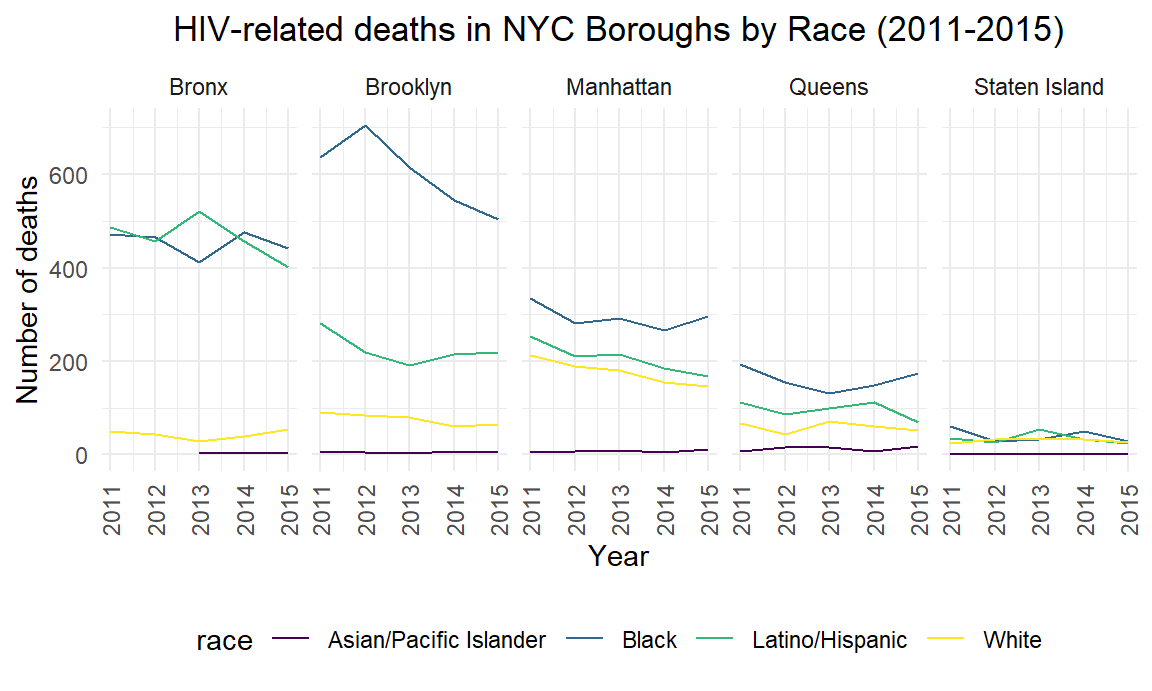
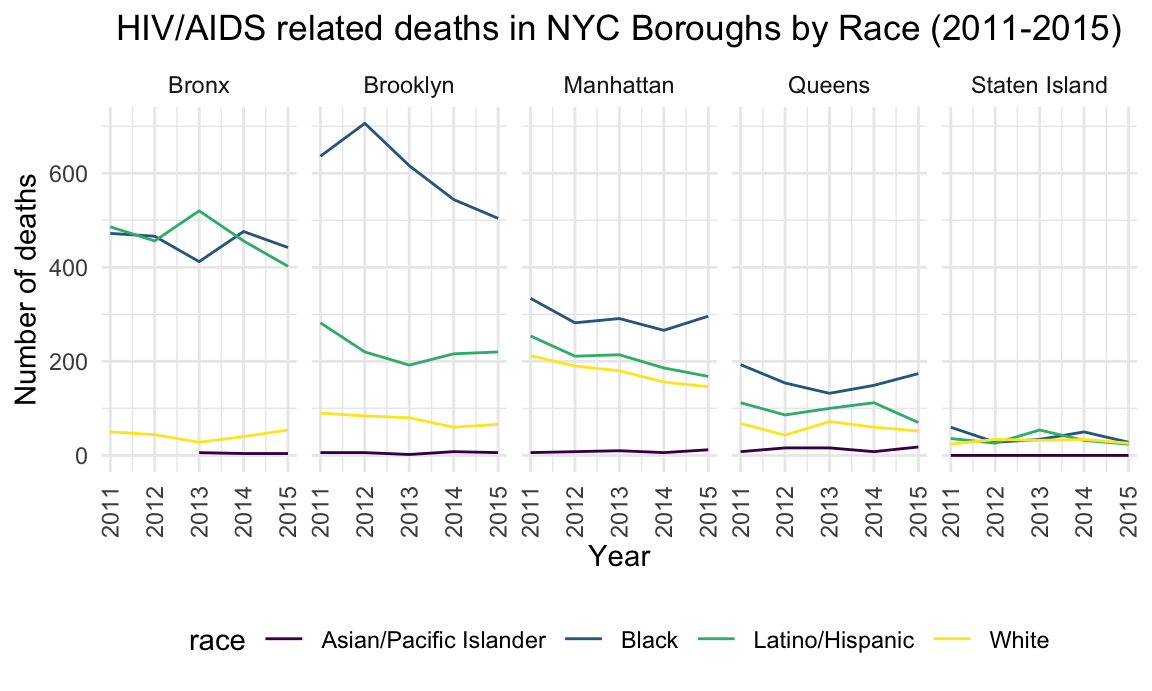
Added HIV/AIDS code and text to report

diff --git a/hiv_analysis.html b/hiv_analysis.html
@@ -366,16 +366,51 @@ City</h1>
 <div id="motivation-to-investiagate-hivaids-related-deaths"
 class="section level2">
 <h2>Motivation to Investiagate HIV/Aids Related Deaths</h2>
+<p>New York City was affected by the HIV/AIDS epidemic more than any
+other U.S. city. When AIDS was first discovered in 1891, little was
+known about the mysterious disease rapidly spreading through the city
+and disproportionately affecting gay men. Doctors had no clue about the
+diseases’ origin, and there was no medical treatment. As a result,
+people with AIDS were essentially given a death sentence. A CDC report
+from 1987 estimated that 70,000 people in NYC had AIDS, and AIDS cases
+in NYC accounted for 30% of AIDS cases in the USA. The same report
+stated that of all AIDS cases in reported in NYC, 51% of adults and 59%
+of children have died. By the end of 192, AIDS had become the number one
+cause of death for U.S. men ages 25 to 44. More than one million
+Americans were infected with HIV, and nearly 10 million people were
+infected with HIV worldwide. Given New York City’s history with
+HIV/AIDS, we wanted to explore recent HIV/AIDS data mortality data.
+Since access to diagnosis and treatment is now widely available
+throughout the city, we were interested in analyzing trends in
+HIV-related deaths accounting by sociodemographic factors such as race,
+age, sex, and NYC borough.</p>
 <pre class="r"><code>#Import data set and clean data
 
 hiv_data = read.csv(&quot;data/DOHMH_HIV_AIDS_Annual_Report.csv&quot;) %&gt;%
    janitor::clean_names() %&gt;%
     na_if(., 99999) %&gt;%
   rename(., sex = gender)</code></pre>
+<p>The sharp decline in HIV/AIDs related mortality in NYC observed in
+our data coincides with USA’s mortality trends reported by the CDC in
+2014. This steep decline in the registered number of deaths is explained
+by the significant scientific and medical advances in HIV diagnosis and
+treatment of early 2000. In 2011, a landmark research study showed that
+putting healthy individuals living with HIV on antiretrovirals can limit
+their virus transmission by 96%. The same FDA approved the first at-home
+HIV test, and considerable advances were made in treatment. NYC’s
+success in fighting the HIV/AIDS epidemic results from the courageous
+work of activists, medical advocates, scientists, and brave gay men and
+women throughout NYC and the world.</p>
 </div>
 <div id="exploring-hivaids-related-deaths-in-nyc-by-race-age-and-sex"
 class="section level2">
 <h2>Exploring HIV/Aids Related Deaths in NYC by Race, Age, and Sex</h2>
+<p>Not everyone has the same access to HIV/AIDS care and early
+diagnosis, and access to medical services, in general, differs
+substantially by race, income, and neighborhood. Therefore, in the
+following sections, we will focus on our analysis of how the decline in
+HIV/AIDS-related deaths varies by race/ethnicity, age, sex, and NYC
+borough, as a proxy of income and SES.</p>
 <pre class="r"><code>#Number of HIV-related Deaths in NYC (2011-2015)
 
 hiv_deaths = hiv_data %&gt;% 
@@ -387,7 +422,7 @@ hiv_deaths = hiv_data %&gt;%
 ggplot(data=hiv_deaths, aes(x=year, y= sum_deaths, group=1)) +
     geom_line() +
     geom_point()+
-  labs (title = &quot;Number of HIV/Aids Related deaths in NYC (2011-2015)&quot;,
+  labs (title = &quot;Number of HIV/AIDS Related deaths in NYC (2011-2015)&quot;,
     x = &quot;Year&quot;,
     y = &quot;Number of deaths&quot;) +
   theme(plot.title = element_text(hjust = 0.5))</code></pre>
@@ -403,7 +438,7 @@ hiv_data %&gt;%
   theme_classic() +
   labs(x = &quot;Race&quot;,
        y = &quot;Number of Deaths&quot;,
-       title = &quot;HIV-related Deaths by Race&quot;) +
+       title = &quot;HIV/AIDS related Deaths by Race&quot;) +
   theme(plot.title = element_text(hjust = 0.7))  </code></pre>
 <p><img src="hiv_analysis_files/figure-html/unnamed-chunk-3-1.png" width="90%" /></p>
 <pre class="r"><code>#Boxplot Hiv-related Deaths in NYCby Age 
@@ -416,7 +451,7 @@ hiv_data %&gt;%
   geom_boxplot() +
   labs(x = &quot;Age Group&quot;,
        y = &quot;Number of Deaths&quot;,
-       title = &quot;HIV/Aids Related Deaths by Age&quot;) +
+       title = &quot;HIV/AIDS Related Deaths by Age&quot;) +
   theme(plot.title = element_text(hjust = 0.7))  </code></pre>
 <p><img src="hiv_analysis_files/figure-html/unnamed-chunk-4-1.png" width="90%" /></p>
 <pre class="r"><code>#Boxplot Hiv-related Deaths in NYC by Sex 
@@ -428,13 +463,15 @@ hiv_data %&gt;%
   geom_boxplot() +
   labs(x = &quot;Sex&quot;,
        y = &quot;Number of Deaths&quot;,
-       title = &quot;HIV/Aids Related Deaths by Sex&quot;) +
+       title = &quot;HIV/AIDS Related Deaths by Sex&quot;) +
   theme(plot.title = element_text(hjust = 0.7))  </code></pre>
 <p><img src="hiv_analysis_files/figure-html/unnamed-chunk-5-1.png" width="90%" /></p>
 </div>
 <div id="visualiazing-hivaids-related-deaths-by-nyc-borough"
 class="section level2">
 <h2>Visualiazing HIV/Aids Related Deaths by NYC Borough</h2>
+<p>Now we will visualize the trends in number of HIV/AIDS related deaths
+for each one of the five NYC <code>borough</code>:</p>
 <pre class="r"><code>#HIV-related deaths in NYC by race 
 
 hiv_data %&gt;% # Filter hiv data by borough
@@ -446,7 +483,7 @@ hiv_data %&gt;% # Filter hiv data by borough
  ggplot(aes(x = year, y = sum_deaths, color = race)) +
     geom_line() +
   facet_grid(~borough) +
-  labs (title = &quot;HIV-related deaths in NYC Boroughs by Race (2011-2015)&quot;,  
+  labs (title = &quot;HIV/AIDS related deaths in NYC Boroughs by Race (2011-2015)&quot;,  
     x = &quot;Year&quot;,
     y = &quot;Number of deaths&quot;) + 
   theme(axis.text.x = element_text(angle = 90, vjust = 0.5, hjust = 1)) +
@@ -463,7 +500,7 @@ summarise(sum_deaths = sum(deaths, na.rm = T)) %&gt;%
  ggplot(aes(x = year, y = sum_deaths, fill = age)) +
   geom_bar(stat= &quot;identity&quot;) +
   facet_grid(~borough) +
-  labs(title = &quot;HIV/Aids related deaths in NYC by Sex (2011-2015)&quot;,  
+  labs(title = &quot;HIV/AIDS related deaths in NYC by Sex (2011-2015)&quot;,  
     x = &quot;Year&quot;,
     y = &quot;Average Number of deaths&quot;) + 
   theme(axis.text.x = element_text(angle = 90, vjust = 0.5, hjust = 1)) +
@@ -481,7 +518,7 @@ summarise(sum_deaths = sum(deaths, na.rm = T)) %&gt;%
  ggplot(aes(x = year, y = sum_deaths, fill = sex)) +
   geom_bar(stat= &quot;identity&quot;) +
   facet_grid(~borough) +
-  labs(title = &quot;HIV/Aids related deaths in NYC by Sex (2011-2015)&quot;,  
+  labs(title = &quot;HIV/AIDS related deaths in NYC by Sex (2011-2015)&quot;,  
     x = &quot;Year&quot;,
     y = &quot;Average Number of deaths&quot;) + 
   theme(axis.text.x = element_text(angle = 90, vjust = 0.5, hjust = 1)) +
@@ -541,6 +578,7 @@ id="fitting-a-mlr-model-finding-the-fiiting-model-of-hiv-related-death-rate-in-n
 class="section level3">
 <h3>Fitting a MLR Model: Finding the fiiting model of hiv-related death
 rate in NYC</h3>
+<p><em>The best fit model is</em>:</p>
 <pre class="r"><code>hiv_mlr = lm(deaths ~ race + age + sex + borough + concurrent_diagnoses + x_linked_to_care_within_3_months, data = hiv_data)
 
 hiv_mlr_result = hiv_mlr %&gt;% 
@@ -711,8 +749,7 @@ mallow_cp
 ##  FPE: Final Prediction Error 
 ##  HSP: Hocking&#39;s Sp 
 ##  APC: Amemiya Prediction Criteria</code></pre>
-<pre class="r"><code>
-library(caret)
+<pre class="r"><code>library(caret)
 
 set.seed(1)
 # Use 10-fold validation and create the training sets
@@ -728,25 +765,58 @@ model_caret = train(deaths ~ age + sex + borough + concurrent_diagnoses + x_link
 model_caret$hiv_mlr 
 ## NULL
 
-model_caret
-## Linear Regression 
+summary(model_caret)
 ## 
-## 6005 samples
-##    5 predictor
+## Call:
+## lm(formula = .outcome ~ ., data = dat)
 ## 
-## No pre-processing
-## Resampling: Cross-Validated (10 fold) 
-## Summary of sample sizes: 4034, 4035, 4035, 4035, 4035, 4034, ... 
-## Resampling results:
+## Residuals:
+##     Min      1Q  Median      3Q     Max 
+## -318.76   -5.58    0.69    6.08  374.69 
 ## 
-##   RMSE     Rsquared   MAE     
-##   26.0741  0.8634017  11.18847
+## Coefficients:
+##                                   Estimate Std. Error t value Pr(&gt;|t|)    
+## (Intercept)                       30.79694    3.86151   7.975 1.92e-15 ***
+## `age20 - 29`                      -7.60972    2.02119  -3.765 0.000169 ***
+## `age30 - 39`                      -8.19925    2.01508  -4.069 4.80e-05 ***
+## `age40 - 49`                      -2.24204    2.01958  -1.110 0.266994    
+## `age50 - 59`                      12.74074    2.04866   6.219 5.46e-10 ***
+## `age60+`                          17.96155    2.14661   8.367  &lt; 2e-16 ***
+## ageAll                             2.23220    1.67043   1.336 0.181519    
+## sexFemale                         -0.65472    1.89458  -0.346 0.729676    
+## sexMale                           -4.68766    1.84748  -2.537 0.011204 *  
+## sexTransgender                   -34.13322   12.09001  -2.823 0.004775 ** 
+## boroughBronx                     -20.31493    2.83194  -7.174 8.52e-13 ***
+## boroughBrooklyn                  -28.71927    2.79251 -10.284  &lt; 2e-16 ***
+## boroughManhattan                 -27.89941    2.81461  -9.912  &lt; 2e-16 ***
+## boroughQueens                    -32.70025    2.82767 -11.564  &lt; 2e-16 ***
+## `boroughStaten Island`           -24.71673    3.05037  -8.103 6.87e-16 ***
+## concurrent_diagnoses               3.05870    0.01642 186.279  &lt; 2e-16 ***
+## x_linked_to_care_within_3_months  -0.03470    0.01543  -2.248 0.024604 *  
+## ---
+## Signif. codes:  0 &#39;***&#39; 0.001 &#39;**&#39; 0.01 &#39;*&#39; 0.05 &#39;.&#39; 0.1 &#39; &#39; 1
 ## 
-## Tuning parameter &#39;intercept&#39; was held constant at a value of TRUE</code></pre>
+## Residual standard error: 25.96 on 4466 degrees of freedom
+## Multiple R-squared:  0.9214, Adjusted R-squared:  0.9211 
+## F-statistic:  3273 on 16 and 4466 DF,  p-value: &lt; 2.2e-16</code></pre>
 </div>
 </div>
-<div id="limitations-to-analysis" class="section level2">
-<h2>Limitations to Analysis</h2>
+<div id="results-and-interpretation" class="section level2">
+<h2>Results and Interpretation</h2>
+<p>There has been a sharp decline in HIV/AIDs related mortality in NYC.
+This steep decline is explained by the significant scientific and
+medical advances in HIV diagnosis and treatment in early 2000. However,
+the general trends in the city vary significantly by race/ethnicity and
+borough. Black and Latino men continue to be disproportionately burdened
+by HIV/AIDS. The number of HIV/AIDS-related deaths is significantly
+higher in Brox, Brooklyn, and Queens, predominantly black and Latino
+boroughs, compared to Manhattan and Staten Island. However, our SLR and
+MLR indicate that these differences aren’t explained by race but are
+primarily driven by other socioecnomic factors, such as borough of
+residence and access to early HIV treatment. This result suggests that
+differences observed by race/ethnicity in HIV/AIDs deaths could result
+from inequities in access to medical care, information, and resources
+available in each NYC borough.</p>
 </div>
 
 
